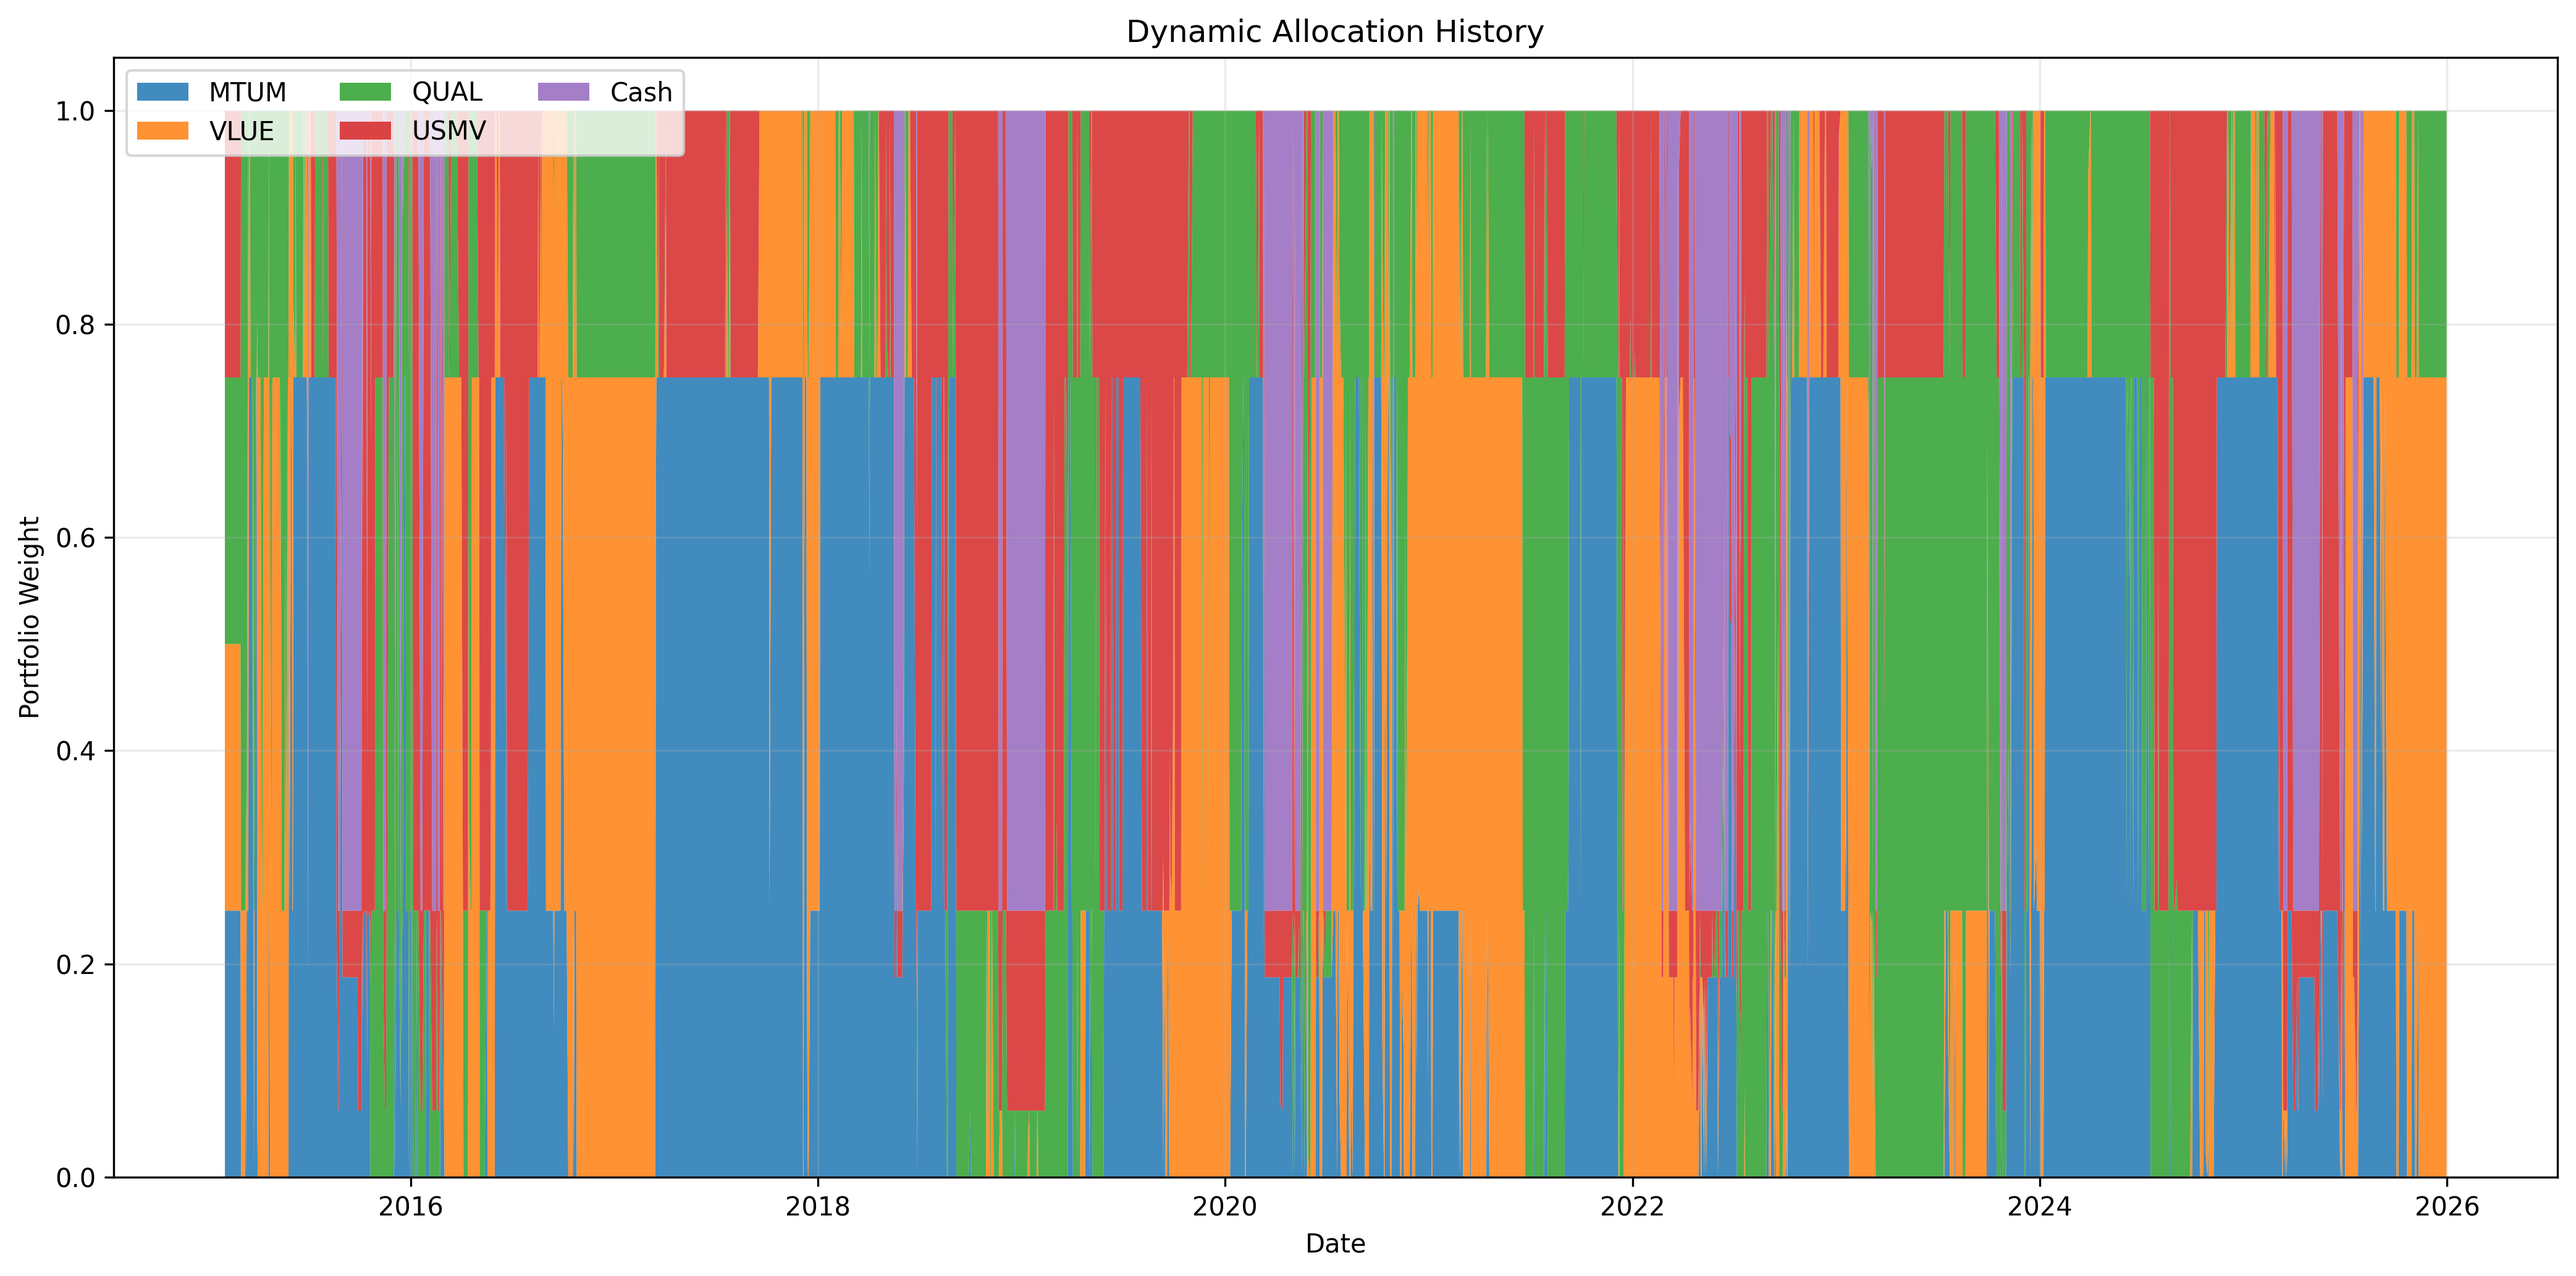
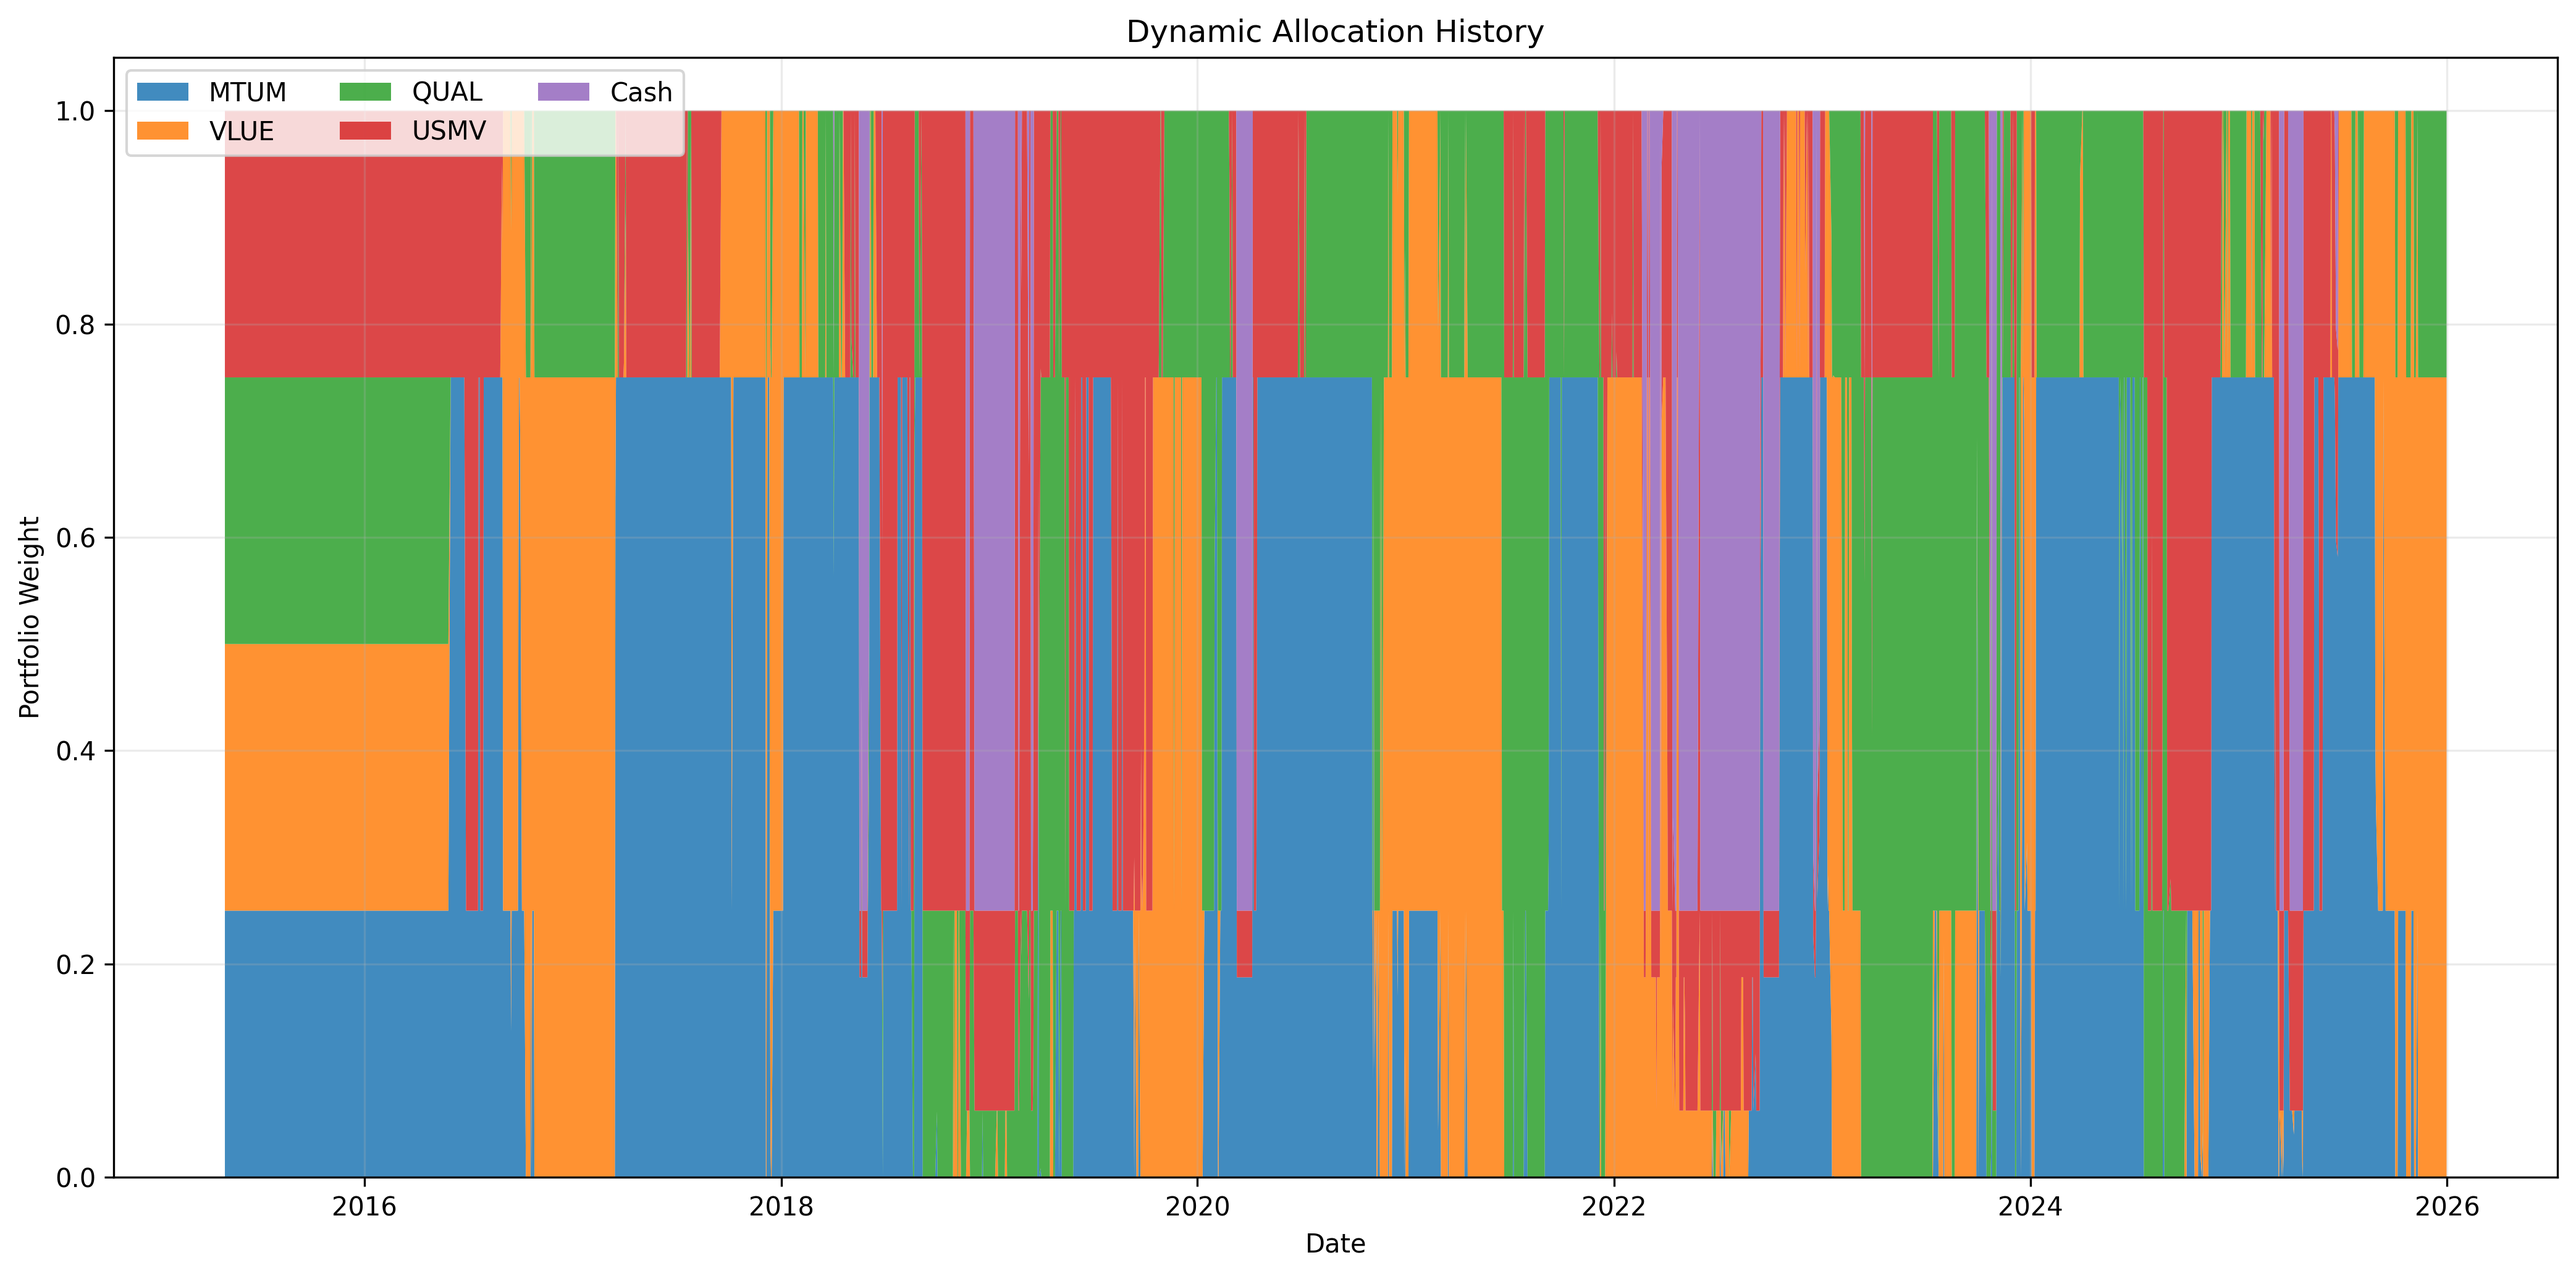
feat(strategy): add new HMM features, revise regime-based allocation
- add SPY volatility z-score and 63-day drawdown to HMM input features
- increase default HMM states from 2 to 3 for better regime identification
- rewrite dynamic asset allocation to only use regime-matched historical data, retain prior portfolio weights when insufficient regime observations are available
- fix data cleaning step to replace infinite values before dropping NA rows
- remove redundant debug print statements and update all performance output files

diff --git a/Dynamic_asset_allocation.py b/Dynamic_asset_allocation.py
@@ -97,7 +97,7 @@ def _select_estimation_window(
     lookback_window: int,
     min_regime_observations: int,
 ) -> tuple[pd.DataFrame, str]:
-    """Prefer regime-matched history and fall back to generic recent history when needed."""
+    """Use only regime-matched history so the dynamic weights stay regime-conditional."""
     historical_returns = factor_returns.iloc[:current_position]
     historical_regimes = regimes.iloc[:current_position]
 
@@ -105,8 +105,7 @@ def _select_estimation_window(
     if len(regime_matched_window) >= min_regime_observations:
         return regime_matched_window, "Regime-Matched"
 
-    fallback_window = historical_returns.tail(lookback_window)
-    return fallback_window, "Fallback-All-History"
+    return regime_matched_window, "Insufficient-Regime-History"
 
 
 def _compute_strategy_metrics(returns: pd.Series) -> dict[str, float]:
@@ -182,6 +181,8 @@ def run_dynamic_allocation(
     static_weight_history = []
     estimation_source_history = []
     sample_size_history = []
+    previous_dynamic_weights = _equal_weight_portfolio(FACTOR_COLUMNS)
+    previous_kelly_fraction = 1.0
 
     for position, date in enumerate(results.index):
         estimation_window, estimation_source = _select_estimation_window(
@@ -193,9 +194,12 @@ def run_dynamic_allocation(
             min_regime_observations=min_regime_observations,
         )
 
-        if len(estimation_window) < 20:
-            markowitz_weights = _equal_weight_portfolio(FACTOR_COLUMNS)
-            kelly_fraction = 1.0
+        if len(estimation_window) < min_regime_observations:
+            # Do not contaminate the dynamic sleeve with generic all-history data.
+            # If we do not have enough observations for the active regime, we keep
+            # the previous allocation until a regime-specific estimate is stable.
+            markowitz_weights = previous_dynamic_weights
+            kelly_fraction = previous_kelly_fraction
         else:
             mean_returns, covariance = _estimate_annualized_statistics(estimation_window)
             markowitz_weights = _solve_markowitz_weights(
@@ -211,6 +215,9 @@ def run_dynamic_allocation(
                 scale=KELLY_SCALE,
                 floor=KELLY_FLOOR,
             )
+
+        previous_dynamic_weights = markowitz_weights
+        previous_kelly_fraction = kelly_fraction
 
         static_estimation_window = factor_returns.iloc[:position].tail(STATIC_LOOKBACK_WINDOW)
         if len(static_estimation_window) < 20:

diff --git a/Data_Extraction.py b/Data_Extraction.py
@@ -50,19 +50,25 @@ def build_data_pipeline(start_date: str = "2015-01-01", end_date: str = "2026-01
         auto_adjust=False,
         progress=False,
     )
-    print(f"Dataset avant feature engineering : {downloaded_data.info()}")
-    print(f"Dataset head avant feature engineering : {downloaded_data.head()}")
-    print(f"Dataset Statistics avant feature engineering : {downloaded_data.describe()}")
     prices = _extract_adjusted_close(downloaded_data)
     print("Engineering features...")
 
     log_returns = np.log(prices / prices.shift(1))
     realized_volatility = log_returns[MARKET_TICKER].rolling(window=20).std() * np.sqrt(252)
+    volatility_mean = realized_volatility.rolling(window=63).mean()
+    volatility_std = realized_volatility.rolling(window=63).std()
+    volatility_zscore = (realized_volatility - volatility_mean) / volatility_std
+
+    spy_growth = np.exp(log_returns[MARKET_TICKER].cumsum())
+    rolling_peak = spy_growth.rolling(window=63, min_periods=20).max()
+    drawdown_63 = spy_growth / rolling_peak - 1
 
     dataset = pd.DataFrame(
         {
             "SPY_Log_Return": log_returns[MARKET_TICKER],
             "SPY_Realized_Vol": realized_volatility,
+            "SPY_Vol_ZScore": volatility_zscore,
+            "SPY_Drawdown_63": drawdown_63,
         },
         index=prices.index,
     )
@@ -71,7 +77,7 @@ def build_data_pipeline(start_date: str = "2015-01-01", end_date: str = "2026-01
         dataset[ticker] = log_returns[ticker]
 
     print("Cleaning and aligning data...")
-    dataset = dataset.dropna().copy()
+    dataset = dataset.replace([np.inf, -np.inf], np.nan).dropna().copy()
     dataset.index.name = "Date"
 
     return dataset
@@ -81,7 +87,5 @@ if __name__ == "__main__":
     market_data = build_data_pipeline()
     print("\n--- Pipeline Execution Complete ---")
     print(f"Total Trading Days Processed: {market_data.shape[0]}")
-    print(f"Dataset infos : {market_data.info()}")
-    print(f"Dataset statistics : {market_data.describe()}")
     print("\nFirst 5 rows of the structured dataset:")
     print(market_data.head())

diff --git a/Data_Train_HMM.py b/Data_Train_HMM.py
@@ -2,6 +2,13 @@ import numpy as np
 import pandas as pd
 from hmmlearn.hmm import GaussianHMM
 
+HMM_FEATURE_COLUMNS = [
+    "SPY_Log_Return",
+    "SPY_Realized_Vol",
+    "SPY_Vol_ZScore",
+    "SPY_Drawdown_63",
+]
+
 
 def _build_hmm_model(n_states: int) -> GaussianHMM:
     """Create the Gaussian HMM with the project's fixed configuration."""
@@ -31,7 +38,7 @@ def _identify_risk_off_state(
 
 def train_and_decode_hmm(
     dataset: pd.DataFrame,
-    n_states: int = 2,
+    n_states: int = 3,
     warmup_periods: int = 252,
     refit_every: int = 21,
 ) -> tuple[pd.DataFrame, GaussianHMM]:
@@ -46,7 +53,7 @@ def train_and_decode_hmm(
     print(f"Training {n_states}-state Hidden Markov Model with walk-forward decoding...")
 
     decoded_dataset = dataset.copy()
-    model_input = decoded_dataset[["SPY_Log_Return", "SPY_Realized_Vol"]].to_numpy()
+    model_input = decoded_dataset[HMM_FEATURE_COLUMNS].to_numpy()
 
     hmm_states = np.full(len(decoded_dataset), np.nan)
     risk_off_probability = np.full(len(decoded_dataset), np.nan)
@@ -91,6 +98,7 @@ def train_and_decode_hmm(
     print("\n--- HMM Training Complete ---")
     print(f"Warmup periods: {warmup_periods}")
     print(f"Refit cadence: every {refit_every} bars")
+    print(f"HMM features: {', '.join(HMM_FEATURE_COLUMNS)}")
     print(f"Latest Risk-Off state identified as State {current_risk_off_state}")
     print("\nLatest Transition Matrix:")
     print(np.round(current_model.transmat_, 3))
